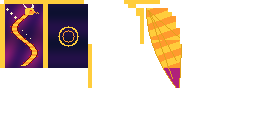
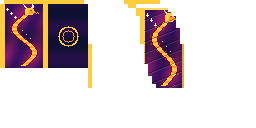
Web: noticias, icono nuevo, panorama y capturas nuevas

Changed region(s): [[0.5625, 0.0625, 0.7188, 0.6875]]

diff --git a/index.html b/index.html
@@ -97,7 +97,8 @@
   .btn svg { width: 22px; height: 22px; }
 
   /* ---------- Portada ---------- */
-  .hero { padding: 70px 0 30px; color: var(--white); text-align: center; }
+  .hero { padding: 70px 0 30px; color: var(--white); text-align: center; position: relative; isolation: isolate; }
+  .hero::before { content: ""; position: absolute; inset: 0 0 auto; height: 620px; z-index: -1; background: linear-gradient(180deg, rgba(58, 26, 16, 0.25), rgba(229, 30, 30, 0.55) 70%, var(--red)), url("img/client-panorama.jpg") center 35% / cover no-repeat; }
   .badge { display: inline-flex; align-items: center; gap: 8px; background: var(--brown); color: var(--yellow); border-radius: 999px; padding: 6px 14px; font-weight: 800; font-size: 13px; }
   .badge i { width: 8px; height: 8px; border-radius: 50%; background: #4ade80; box-shadow: 0 0 0 3px rgba(74, 222, 128, 0.3); }
   h1 { font-family: var(--display); font-size: clamp(40px, 7vw, 84px); line-height: 1.02; margin: 20px auto 14px; text-shadow: 5px 5px 0 var(--brown); max-width: 13em; }
@@ -150,6 +151,13 @@
   summary::after { content: "+"; font-family: var(--display); color: var(--red); }
   details[open] summary::after { content: "–"; }
   details p { color: var(--muted); line-height: 1.6; margin: 12px 0 0; }
+  .ncards { display: grid; grid-template-columns: repeat(auto-fill, minmax(260px, 1fr)); gap: 18px; margin-bottom: 26px; }
+  .ncard { background: var(--cream); border: var(--border); border-radius: 18px; box-shadow: var(--sticker-sm); overflow: hidden; color: var(--ink); }
+  .ncard img { aspect-ratio: 1200 / 630; object-fit: cover; width: 100%; border-bottom: var(--border); }
+  .ncard div { padding: 12px 16px 16px; }
+  .ncard h4 { margin: 0 0 6px; font-family: var(--display); font-size: 17px; }
+  .ncard p { margin: 0; color: var(--muted); line-height: 1.5; font-size: 14px; }
+  .ncard time { font-size: 12px; font-weight: 800; color: var(--red); }
   .news { display: grid; gap: 14px; max-width: 820px; }
   .news article { background: var(--cream); border: var(--border); border-radius: 18px; box-shadow: var(--sticker-sm); padding: 16px 20px; }
   .news h4 { margin: 0 0 4px; font-family: var(--display); font-size: 18px; } .news time { color: var(--muted); font-weight: 700; font-size: 13px; }
@@ -342,13 +350,13 @@
       <div><span class="num">02</span><h3 data-t="f2.t">Cosméticos 3D que ven los demás</h3>
         <p data-t="f2.d">Sombreros, pelo, ropa con mangas, alas, auras, mascotas, herramientas a la espalda y un Mini Yo con tu skin. Los jugadores con KIRMC los ven dentro del juego.</p>
         <a class="btn btn-yellow btn-sm" href="#/tienda" data-t="f2.cta">Probar en la tienda</a></div>
-      <div class="f-media"><div class="shot"><img src="img/cos-wings.jpg" alt="Cosméticos KIRMC dentro del juego" loading="lazy" width="854" height="480"></div></div>
+      <div class="f-media"><div class="shot"><img src="img/news/collection.jpg" alt="Cosméticos KIRMC dentro del juego" loading="lazy" width="1200" height="630"></div></div>
     </div>
     <div class="feature reveal">
       <div><span class="num">03</span><h3 data-t="f3.t">Emotes y bailes</h3>
         <p data-t="f3.d">Mantén la tecla B para abrir la rueda de emotes: saluda, siéntate o baila. Hay 22, con páginas que se cambian con la rueda del ratón.</p>
         <a class="btn btn-cream btn-sm" href="#/tienda?cat=gesture" data-t="f3.cta">Ver los emotes</a></div>
-      <div class="f-media"><div class="shot"><img src="img/cos-oni.jpg" alt="Jugador con cosméticos de oni" loading="lazy" width="854" height="480"></div></div>
+      <div class="f-media"><div class="shot"><img src="img/news/emotes.jpg" alt="Emotes y bailes de KIRMC" loading="lazy" width="1200" height="630"></div></div>
     </div>
   </div>
 </section>
@@ -374,7 +382,7 @@
       <div><span class="num">07</span><h3 data-t="f7.t">Skins y capas que sí se ven</h3>
         <p data-t="f7.d">Cuenta de Microsoft o modo no-premium, con skins y capas visibles. Las capas KIRMC también funcionan como élitros.</p>
         <a class="btn btn-yellow btn-sm" href="#/capas" data-t="f7.cta">Ver las capas</a></div>
-      <div class="f-media"><div class="shot"><img src="img/game-nametag.jpg" alt="Nombre de jugador con el icono de KIRMC" loading="lazy" width="854" height="480"></div></div>
+      <div class="f-media"><div class="shot"><img src="img/news/hd-capes.jpg" alt="Capas KIRMC en alta resolución" loading="lazy" width="1200" height="630"></div></div>
     </div>
     <div class="feature reveal">
       <div><span class="num">08</span><h3 data-t="f8.t">Cuatro temas, tres idiomas</h3>
@@ -392,7 +400,7 @@
       <div class="shot reveal"><img src="img/game-title.jpg" alt="Menú principal ft. KIRMC" loading="lazy" width="854" height="480"></div>
       <div class="shot reveal"><img src="img/game-hud.jpg" alt="HUD de KIRMC Client" loading="lazy" width="854" height="480"></div>
       <div class="shot reveal"><img src="img/game-hud-glass.jpg" alt="HUD estilo Cristal" loading="lazy" width="854" height="480"></div>
-      <div class="shot reveal"><img src="img/cos-kabuto.jpg" alt="Kabuto y máscara kitsune" loading="lazy" width="854" height="480"></div>
+      <div class="shot reveal"><img src="img/news/portal-capes.jpg" alt="Capas de portal" loading="lazy" width="1200" height="630"></div>
       <div class="shot reveal"><img src="img/launcher-shop.jpg" alt="Tienda del launcher" loading="lazy" width="1240" height="760"></div>
       <div class="shot reveal"><img src="img/launcher-play.jpg" alt="Pantalla Jugar" loading="lazy" width="1240" height="760"></div>
     </div>
@@ -402,7 +410,8 @@
 <section id="novedades" class="band">
   <div class="wrap">
     <span class="eyebrow" style="background:var(--red);color:#fff" data-t="news.eyebrow">Novedades</span>
-    <h2 data-t="news.title">Últimas versiones</h2>
+    <h2 data-t="news.title">Noticias</h2>
+    <div class="ncards" id="ncards"></div>
     <div class="news" id="news"><p class="hint" data-t="news.loading">Cargando novedades…</p></div>
     <p style="margin-top:18px"><a href="https://github.com/kirpulrbx-max/KIRMC-Launcher/releases" rel="noopener" style="font-weight:800" data-t="dl.all">Todas las versiones y novedades</a></p>
   </div>
@@ -557,7 +566,7 @@
       "f6.t": "Friends and chat", "f6.d": "Add friends, see who's playing and chat in real time with notifications. The oni icon marks KIRMC users.",
       "f7.t": "Skins and capes that actually show", "f7.d": "Microsoft account or offline mode, with visible skins and capes. KIRMC capes also work as elytra.", "f7.cta": "See the capes",
       "f8.t": "Four themes, three languages", "f8.d": "KIRMC, Dark and Minecraft themes, smooth animations and game sounds. In Spanish, English and Japanese, and it updates itself.",
-      "gal.eyebrow": "Screenshots", "gal.title": "Made to look good", "news.eyebrow": "What's new", "news.title": "Latest versions", "news.loading": "Loading news…",
+      "gal.eyebrow": "Screenshots", "gal.title": "Made to look good", "news.eyebrow": "What's new", "news.title": "News", "news.loading": "Loading news…",
       "dl.all": "All versions and changelog", "dl.title": "Ramen time!", "dl.sub": "Download KIRMC Launcher, create your first instance and play.", "dl.btn": "Download", "dl.java": "Java included automatically",
       "faq.title": "FAQ", "q1": "Is it free?", "a1": "Yes. KIRMC Launcher is free. K coins are earned every day and can also be topped up if you want.",
       "q2": "Windows says the file isn't common. Is it safe?", "a2": "That's normal for new apps without a Microsoft signature. Click “More info” and “Run anyway”. The code is on GitHub.",
@@ -602,7 +611,7 @@
       "f6.t": "フレンドとチャット", "f6.d": "フレンドを追加し、誰が遊んでいるか確認、通知つきでリアルタイムにチャット。鬼アイコンが KIRMC ユーザーの目印。",
       "f7.t": "ちゃんと見えるスキンとマント", "f7.d": "Microsoft アカウントでもオフラインでも、スキンとマントが表示されます。KIRMC のマントはエリトラにもなります。", "f7.cta": "マントを見る",
       "f8.t": "4 つのテーマ、3 つの言語", "f8.d": "KIRMC・ダーク・Minecraft テーマ、なめらかなアニメーションとゲームのサウンド。スペイン語・英語・日本語対応、自動アップデート。",
-      "gal.eyebrow": "スクリーンショット", "gal.title": "見た目にもこだわって", "news.eyebrow": "新着情報", "news.title": "最新バージョン", "news.loading": "読み込み中…",
+      "gal.eyebrow": "スクリーンショット", "gal.title": "見た目にもこだわって", "news.eyebrow": "新着情報", "news.title": "ニュース", "news.loading": "読み込み中…",
       "dl.all": "すべてのバージョンと更新履歴", "dl.title": "ラーメンタイム！", "dl.sub": "KIRMC Launcher をダウンロードして、最初のインスタンスを作って遊ぼう。", "dl.btn": "ダウンロード", "dl.java": "Java は自動で用意",
       "faq.title": "よくある質問", "q1": "無料ですか？", "a1": "はい。KIRMC Launcher は無料です。K コインは毎日もらえ、チャージもできます。",
       "q2": "Windows が警告を出します。安全ですか？", "a2": "Microsoft の署名がない新しいアプリでは普通です。「詳細情報」→「実行」を押してください。コードは GitHub にあります。",
@@ -649,6 +658,7 @@
     $$(".lang button").forEach((b) => b.classList.toggle("on", b.dataset.lang === next));
     try { localStorage.setItem("kirmc-lang", next); } catch {}
     renderShop();
+    renderNews();
   }
   $$(".lang button").forEach((b) => b.addEventListener("click", () => setLang(b.dataset.lang)));
 
@@ -843,6 +853,22 @@
     if (id && BY_ID[id] && !state.worn.includes(id) && BY_ID[id].kind !== "gesture" && BY_ID[id].kind !== "trail") { state.worn = [...state.worn.filter((w) => BY_ID[w]?.slot !== BY_ID[id].slot), id]; }
     $("#results").hidden = true; $("#q").value = ""; $("#q").blur();
   });
+
+  // ---------- Noticias de cosméticos y capas ----------
+  const NEWS = [
+    ["portal-capes", "2026-11-16", { es: ["Capas de portal", "Portal del Nether, del End y de Salida: tres capas animadas que también funcionan como élitros."], en: ["Portal capes", "Nether, End and End Gateway portals: three animated capes that also work as elytra."], ja: ["ポータルのマント", "ネザー・エンド・エンドゲートウェイの 3 種類のアニメーションマント。エリトラにもなります。"] }],
+    ["hd-capes", "2026-11-16", { es: ["Capas en alta resolución", "Las 13 capas de la colección, redibujadas con cuatro veces más detalle."], en: ["High-resolution capes", "All 13 collection capes, redrawn with four times more detail."], ja: ["高解像度マント", "コレクションの 13 種類のマントを 4 倍の解像度で描き直しました。"] }],
+    ["classic-capes", "2026-11-16", { es: ["Capas clásicas arregladas", "Oni Cape y las capas del KIRPASS ya no tienen huecos en los élitros."], en: ["Classic capes fixed", "The Oni Cape and KIRPASS capes no longer have holes in their elytra."], ja: ["クラシックマントを修正", "鬼マントと KIRPASS のマントのエリトラの穴を直しました。"] }],
+    ["emotes", "2026-11-16", { es: ["12 bailes nuevos", "67, Hilo Dental, Griddy, Macarena, Robot y más. Mantén B para abrir la rueda."], en: ["12 new dances", "67, Floss, Griddy, Macarena, Robot and more. Hold B to open the wheel."], ja: ["新しいダンス 12 種", "67、フロス、グリディ、マカレナ、ロボットなど。B 長押しでホイール。"] }],
+    ["collection", "2026-11-16", { es: ["Cosméticos rehechos", "Ropa con mangas, alas, cuernos, auras nuevas y 28 herramientas a la espalda."], en: ["Cosmetics remade", "Clothes with sleeves, wings, horns, new auras and 28 tools on your back."], ja: ["コスメをリニューアル", "袖つきの服、翼、角、新しいオーラ、背中の道具 28 種。"] }],
+    ["welcome-cape", "2026-11-16", { es: ["Capa de Bienvenida", "¿Cuenta nueva? Canjea BIENVENIDO-KIRMC en Ajustes y llévatela gratis."], en: ["Welcome Cape", "New account? Redeem BIENVENIDO-KIRMC in Settings and get it free."], ja: ["ウェルカムマント", "新規アカウントは設定で BIENVENIDO-KIRMC を入力して無料で入手。"] }],
+    ["mini-me", "2026-11-16", { es: ["Mini Yo", "Tu mini tú se sienta en tu hombro o tu cabeza, o camina a tu lado a ras de suelo."], en: ["Mini Me", "Your mini you sits on your shoulder or head, or walks beside you on the ground."], ja: ["ミニ自分", "ミニ自分が肩や頭に座ったり、横を歩いたりします。"] }],
+  ];
+  function renderNews() {
+    const el = document.getElementById("ncards");
+    if (!el) return;
+    el.innerHTML = NEWS.map(([img, date, tx]) => { const [ti, su] = tx[lang] || tx.es; return `<article class="ncard"><img src="img/news/${img}.jpg" alt="" loading="lazy" width="1200" height="630"><div><time>${new Date(date).toLocaleDateString()}</time><h4>${esc(ti)}</h4><p>${esc(su)}</p></div></article>`; }).join("");
+  }
 
   // ---------- Última versión y novedades (GitHub) ----------
   fetch("https://api.github.com/repos/kirpulrbx-max/KIRMC-Launcher/releases?per_page=3")
